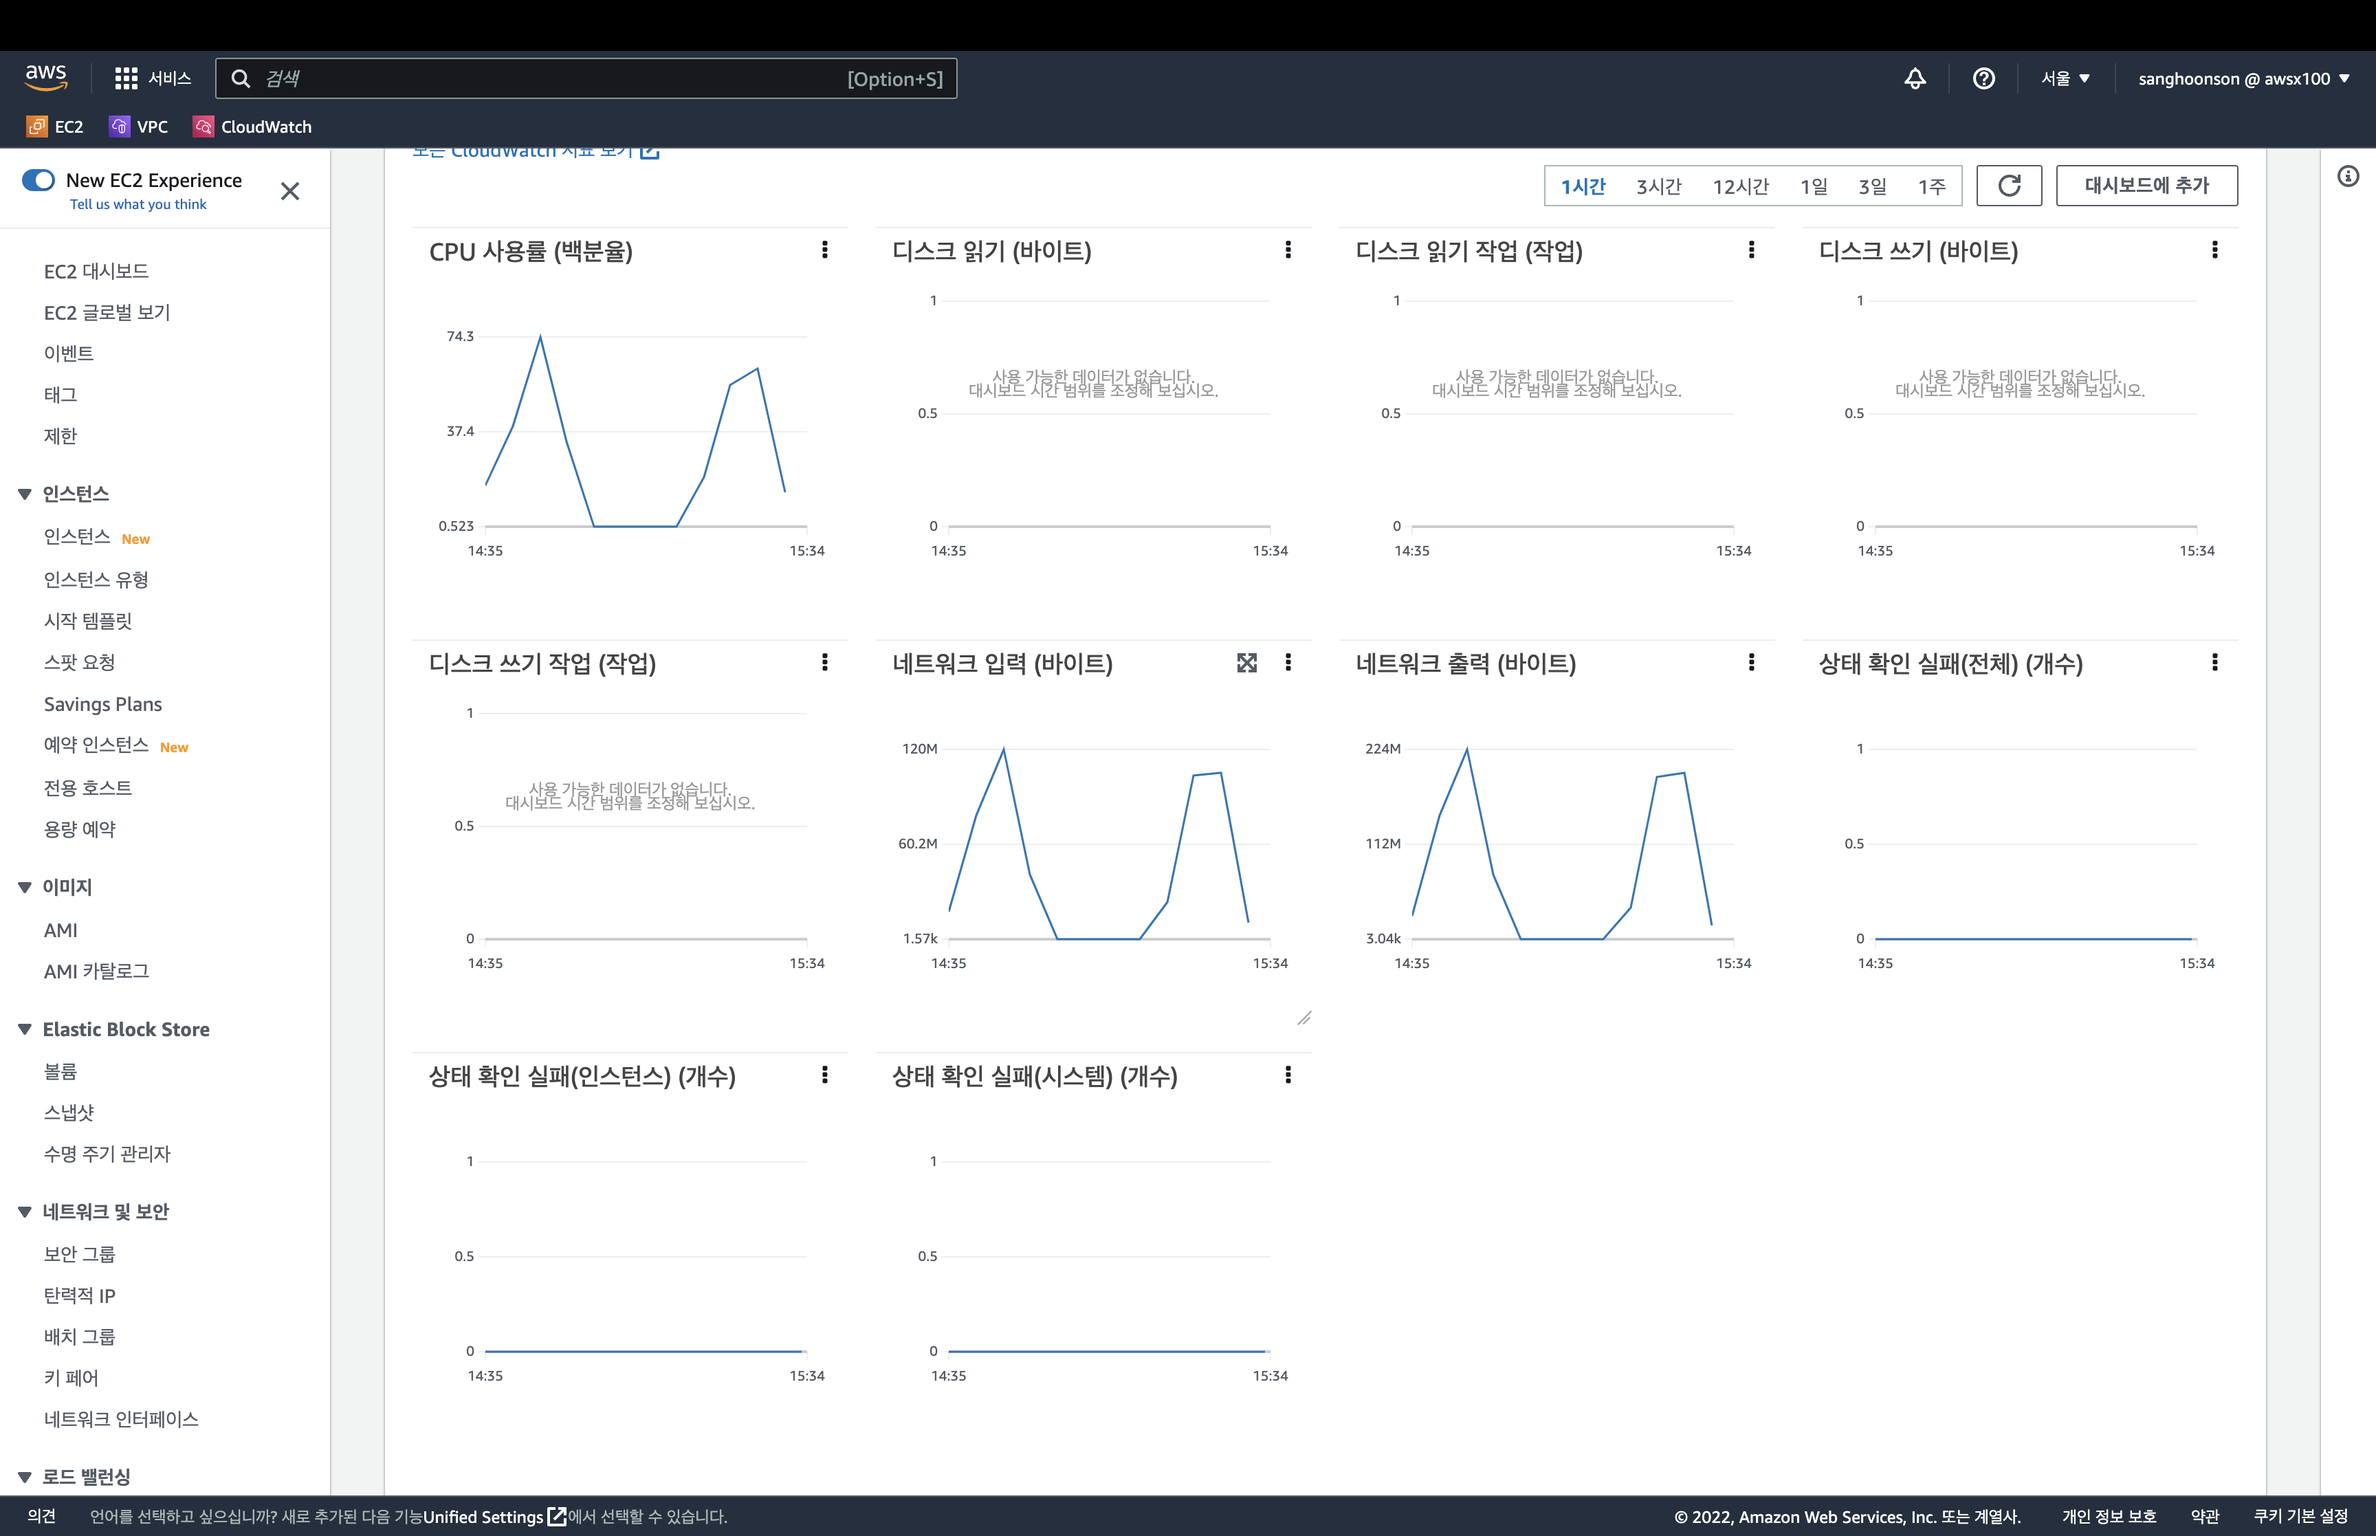
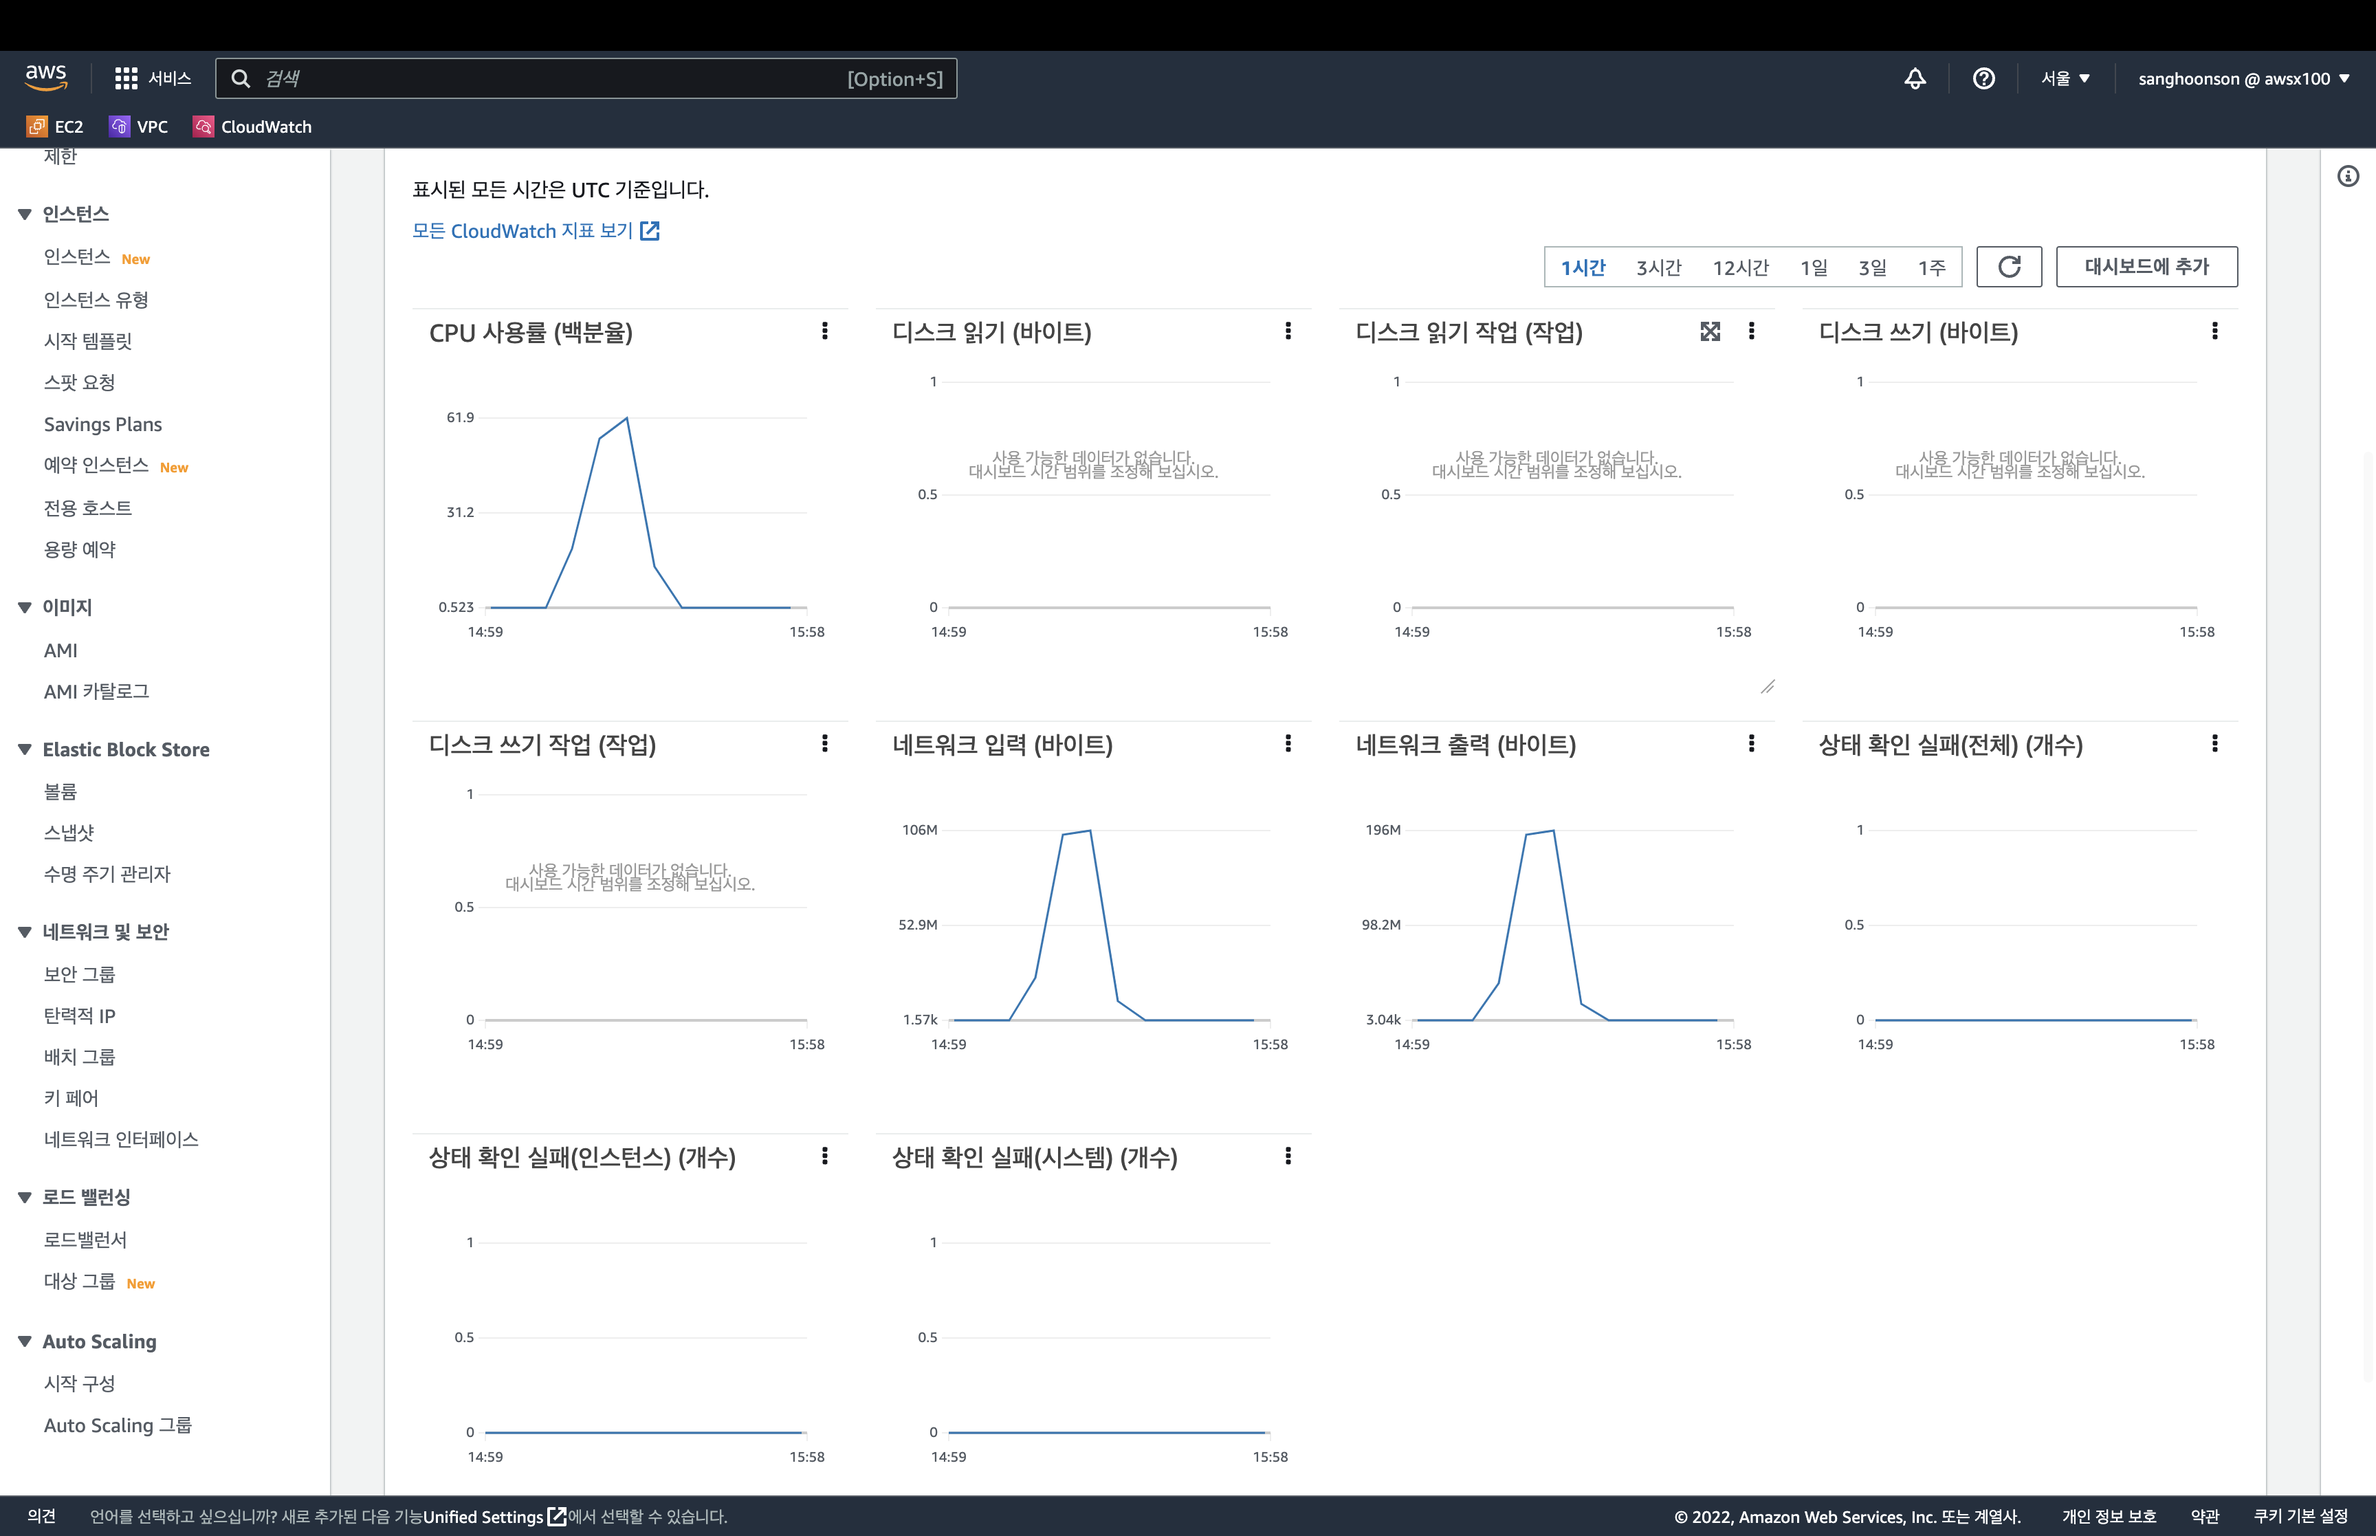
chore: stress bulk 결과 재업로드

diff --git a/README.md b/README.md
@@ -65,16 +65,21 @@ npm run dev
 [X] Smoke, Load, Stress 테스트 후 결과를 기록
 
 1. Launch Template 링크를 공유해주세요.
-   https://ap-northeast-2.console.aws.amazon.com/ec2/v2/home?region=ap-northeast-2#LaunchTemplateDetails:launchTemplateId=lt-0f39af934127fa5c9
+  - https://ap-northeast-2.console.aws.amazon.com/ec2/v2/home?region=ap-northeast-2#LaunchTemplateDetails:launchTemplateId=lt-0f39af934127fa5c9
 
 2. cpu 부하 실행 후 EC2 추가생성 결과를 공유해주세요. (Cloudwatch 캡쳐)
-
+  - 아래 경로 참고 부탁드립니다.
+    - ./monitoring/stress/step2/step2_stress_bulk_asg_ec2
+    - ./monitoring/stress/step2/step2_stress_bulk_AutoScaling
 ```sh
 $ stress -c 2
 ```
 
 3. 성능 개선 결과를 공유해주세요 (Smoke, Load, Stress 테스트 결과)
-
+  - 아래 경로 참고 부탁드립니다.
+    - ./monitoring/smoke/step2
+    - ./monitoring/load/step2
+    - ./monitoring/stress/step2
 ---
 
 ### 3단계 - 쿼리 최적화
